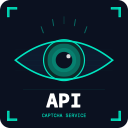
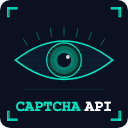
Refresh branding and bump to 1.1.2
Update the plugin icon (animated laser eye) and the directory banner
with the new captchaapi.eu logo, plus regenerated PNG fallbacks.

diff --git a/captchaapi.php b/captchaapi.php
@@ -3,7 +3,7 @@
  * Plugin Name:       GDPR Cookieless CAPTCHA for WooCommerce & Forms - captchaapi.eu
  * Plugin URI:        https://captchaapi.eu/docs
  * Description:       Cookieless, GDPR-friendly CAPTCHA hosted in the EU - a privacy-first reCAPTCHA alternative. Protects login, registration, lost-password, comments, WooCommerce, and the popular form plugins.
- * Version:           1.1.1
+ * Version:           1.1.2
  * Requires at least: 6.0
  * Requires PHP:      7.4
  * Author:            captchaapi.eu
@@ -18,7 +18,7 @@ if (! defined('ABSPATH')) {
     exit;
 }
 
-define('CAPTCHAAPI_VERSION', '1.1.1');
+define('CAPTCHAAPI_VERSION', '1.1.2');
 define('CAPTCHAAPI_PLUGIN_FILE', __FILE__);
 define('CAPTCHAAPI_PLUGIN_DIR', plugin_dir_path(__FILE__));
 define('CAPTCHAAPI_PLUGIN_URL', plugin_dir_url(__FILE__));
